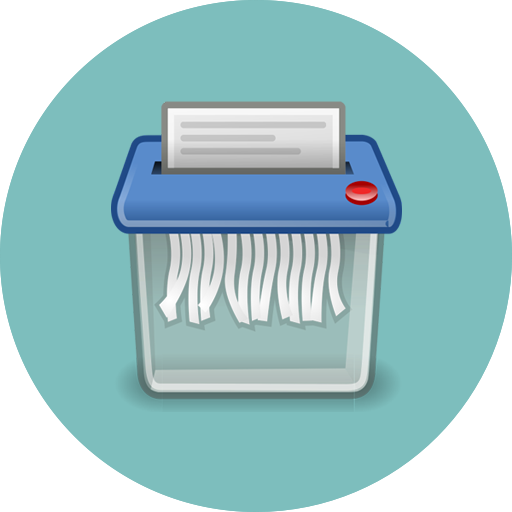
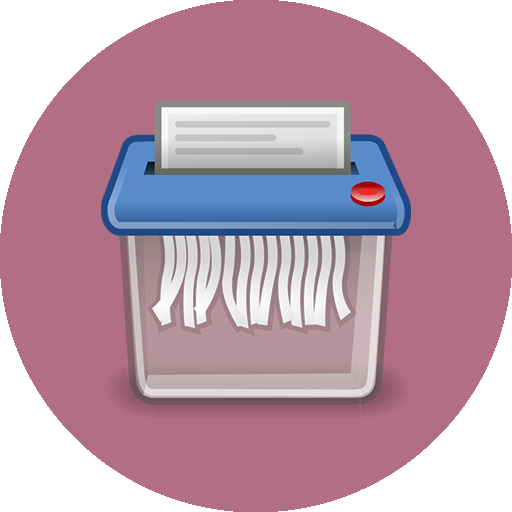
arreglos de visualizacion en pantalla de facturacion seguir con el campo de descuento

diff --git a/src/app/admin/facturacion/cuerpo-factura/cuerpo-factura.component.html b/src/app/admin/facturacion/cuerpo-factura/cuerpo-factura.component.html
@@ -1,4 +1,4 @@
-<div>
+<div class="cuerpoFact">
   <table #tituloFactTable="mdbTable" mdbTable class="table m-auto" small="true">
     <thead>
       <tr class="text-center">
@@ -38,6 +38,7 @@
                 <td class="COD td0padding">
                   <div class="from-group">
                     <input
+                    [readOnly]="!propietario"
                       type="text"
                       class="form-control entrada "
                       id="cod-{{ i }}"
@@ -53,6 +54,7 @@
                 <td class="CAN td0padding">
                   <div class="from-group">
                     <input
+                    [readOnly]="!propietario"
                       type="number"
                       class="form-control entrada "
                       id="can-{{ i }}"
@@ -68,6 +70,7 @@
                 <td class="UNI td0padding">
                   <div class="from-group">
                     <input
+                    [readOnly]="!propietario"
                       *ngIf="(drop && inputDrop !== secuenciaDelDrop(i)) || (!drop && inputDrop === secuenciaDelDrop(i)) || !drop"
                       type="text"
                       class="form-control entrada "
@@ -120,5 +123,5 @@
     </form>
   </div>
   <!-- <p>{{ rowFactura.value | json }}</p> -->
-  <div *ngIf="!propietario" class="Overlay position-absolute w-100  "></div>
+  
 </div>

diff --git a/src/app/admin/facturacion/facturacion.component.html b/src/app/admin/facturacion/facturacion.component.html
@@ -1,7 +1,7 @@
 <!-- <div class="row" style="height: calc(100% - 80px)"> -->
 <!-- <div class="row"> -->
 <!-- <div class="col-xs-12 col-md-12"> -->
-<h1>Facturación</h1>
+<h3>Facturación</h3>
 <div class="card cardPrincipal sinPadding tamano">
   <div class="cabezaFactura ">
     <div class="row">

diff --git a/src/app/admin/navbar-a/navbar-a.component.html b/src/app/admin/navbar-a/navbar-a.component.html
@@ -83,7 +83,7 @@
         </li> -->
     </mat-toolbar>
 
-    <div class="" style="padding: 30px 80px 30px 80px; height: calc(100% - 80px);">
+    <div class="" style="padding: 15px 80px 20px 80px; height: calc(100% - 80px);">
       <router-outlet></router-outlet>
       <!-- rutas -->
     </div>

diff --git a/src/app/admin/facturacion/cuerpo-factura/cuerpo-factura.component.ts b/src/app/admin/facturacion/cuerpo-factura/cuerpo-factura.component.ts
@@ -76,7 +76,7 @@ export class CuerpoFacturaComponent implements OnInit, OnChanges, AfterViewInit,
 
     this.ARRAY_ROWFACTURAS = this.form['rowFactura'] as FormArray;
 
-    for (let index = 0; index <= 7; index++) {
+    for (let index = 0; index <= 9; index++) {
       this.addItem();
     }
 

diff --git a/src/app/admin/facturacion/cuerpo-factura/cuerpo-factura.component.scss b/src/app/admin/facturacion/cuerpo-factura/cuerpo-factura.component.scss
@@ -93,6 +93,10 @@
   display: flex;
   justify-content: center;
   align-items: center;
-  height: calc(100% - 37.2vh)!important;
+  height: calc(100% - 37.2vh) !important;
   transform: translate(0px, -153px);
+}
+
+.cuerpoFact {
+  display: contents;
 }
